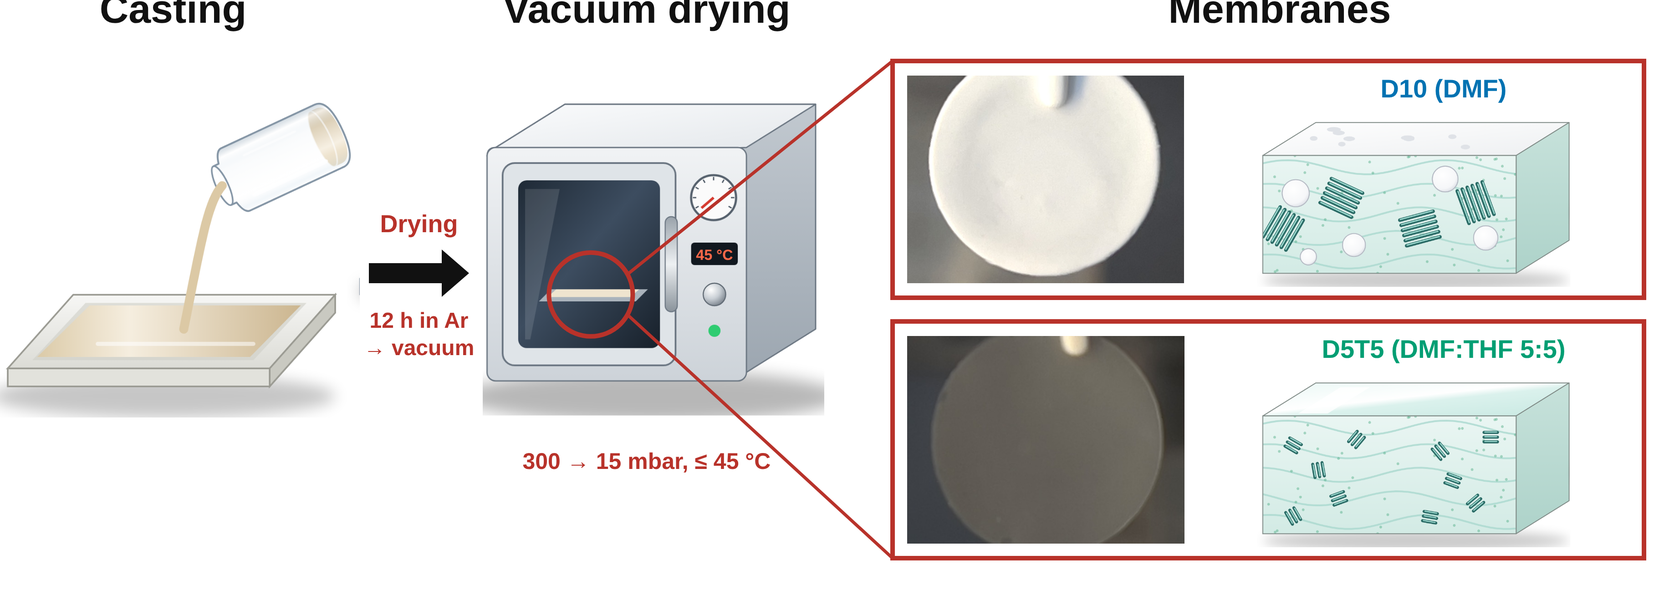
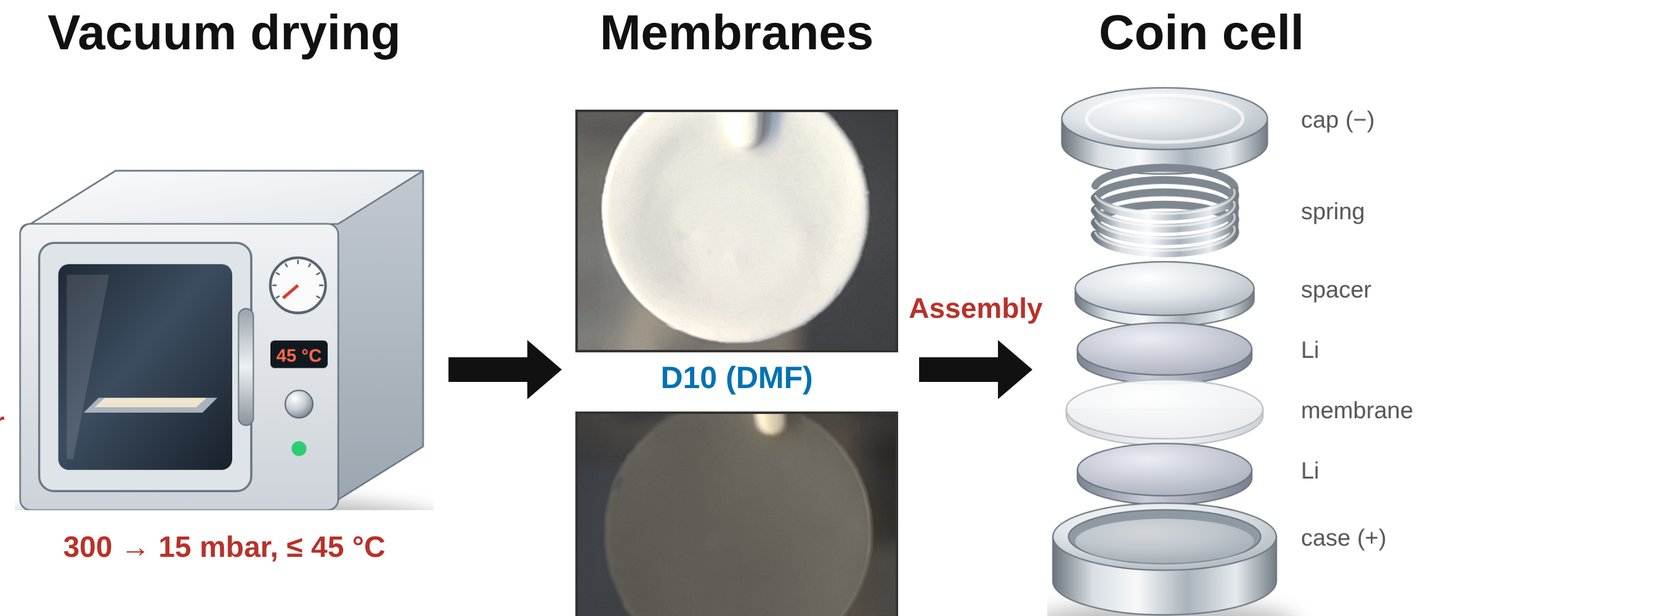
Simplify polymer overview figure
Claude-Session: https://claude.ai/code/session_011CpiUnPEaysCjyarAkSxyt

diff --git a/research-polymer.html b/research-polymer.html
@@ -102,7 +102,7 @@
 
       <img
         src="images/polymer-overview.png"
-        alt="Overview: membrane synthesis, casting and vacuum drying; photographs and proposed structure of D10 and D5T5 membranes; electrochemical analysis and operando SAXS/WAXS"
+        alt="Overview: membrane synthesis, casting, vacuum drying, membrane photographs and coin-cell assembly; electrochemical results and operando SAXS/WAXS at KWS-X"
       >
 
     </section>
